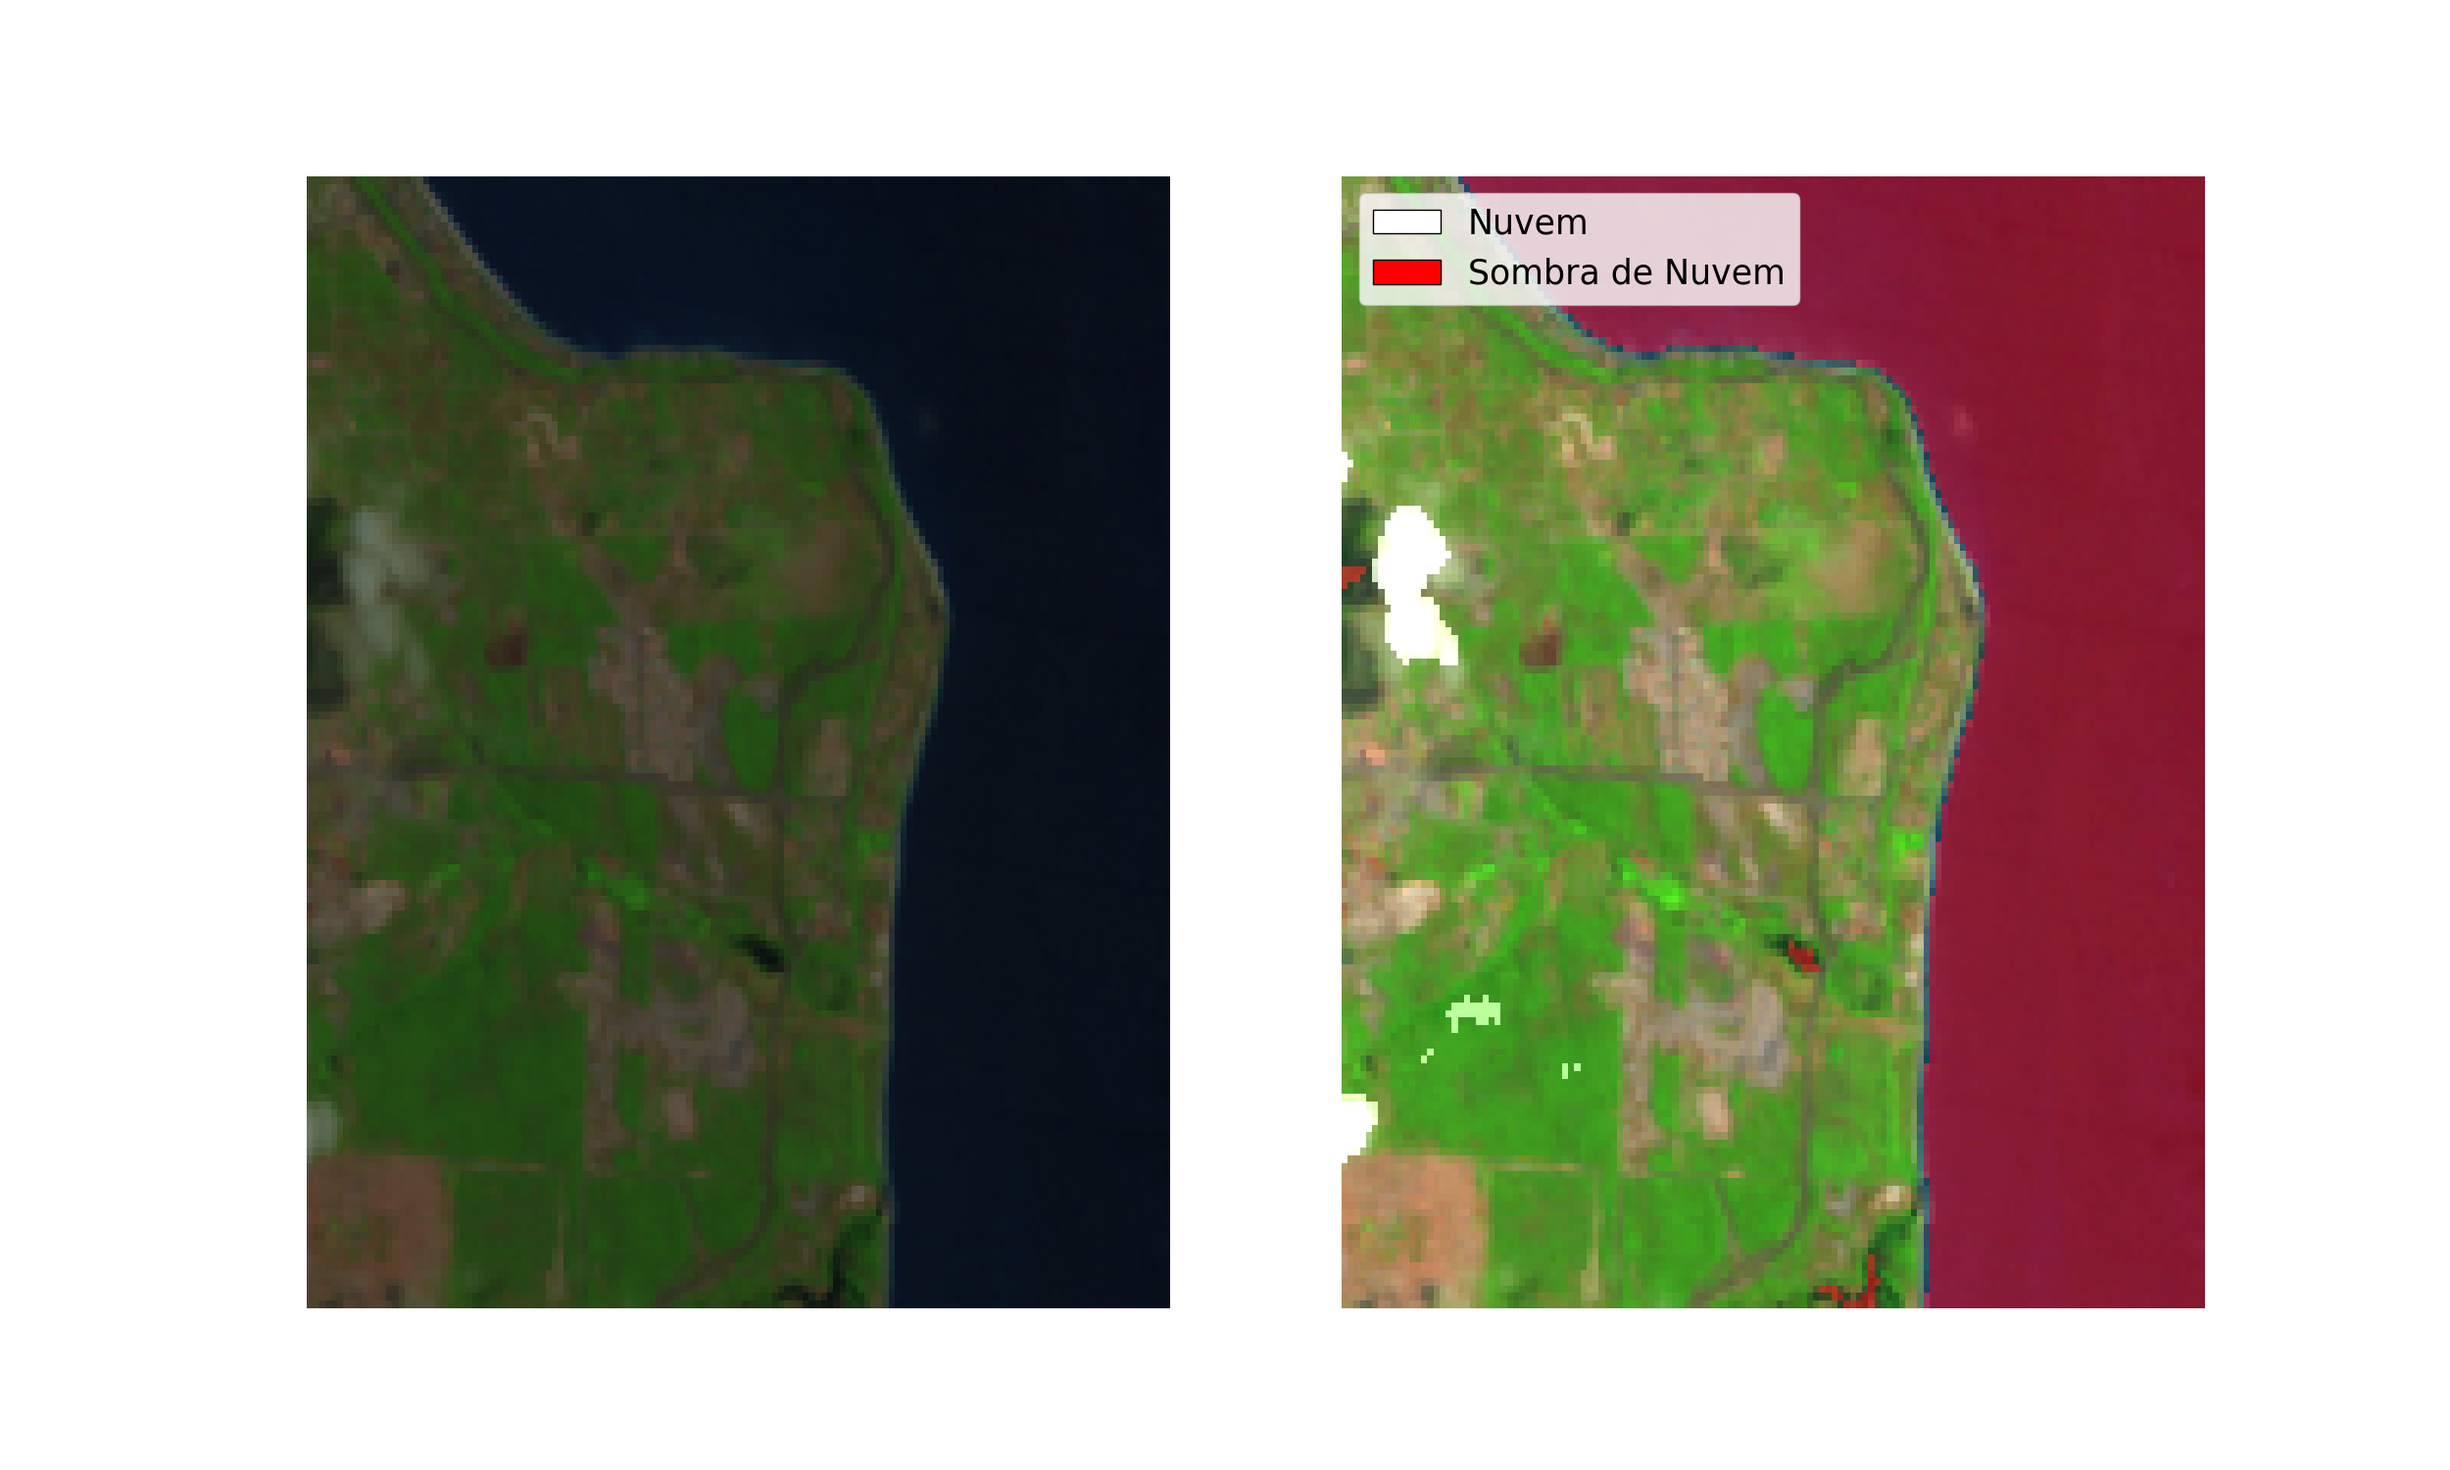
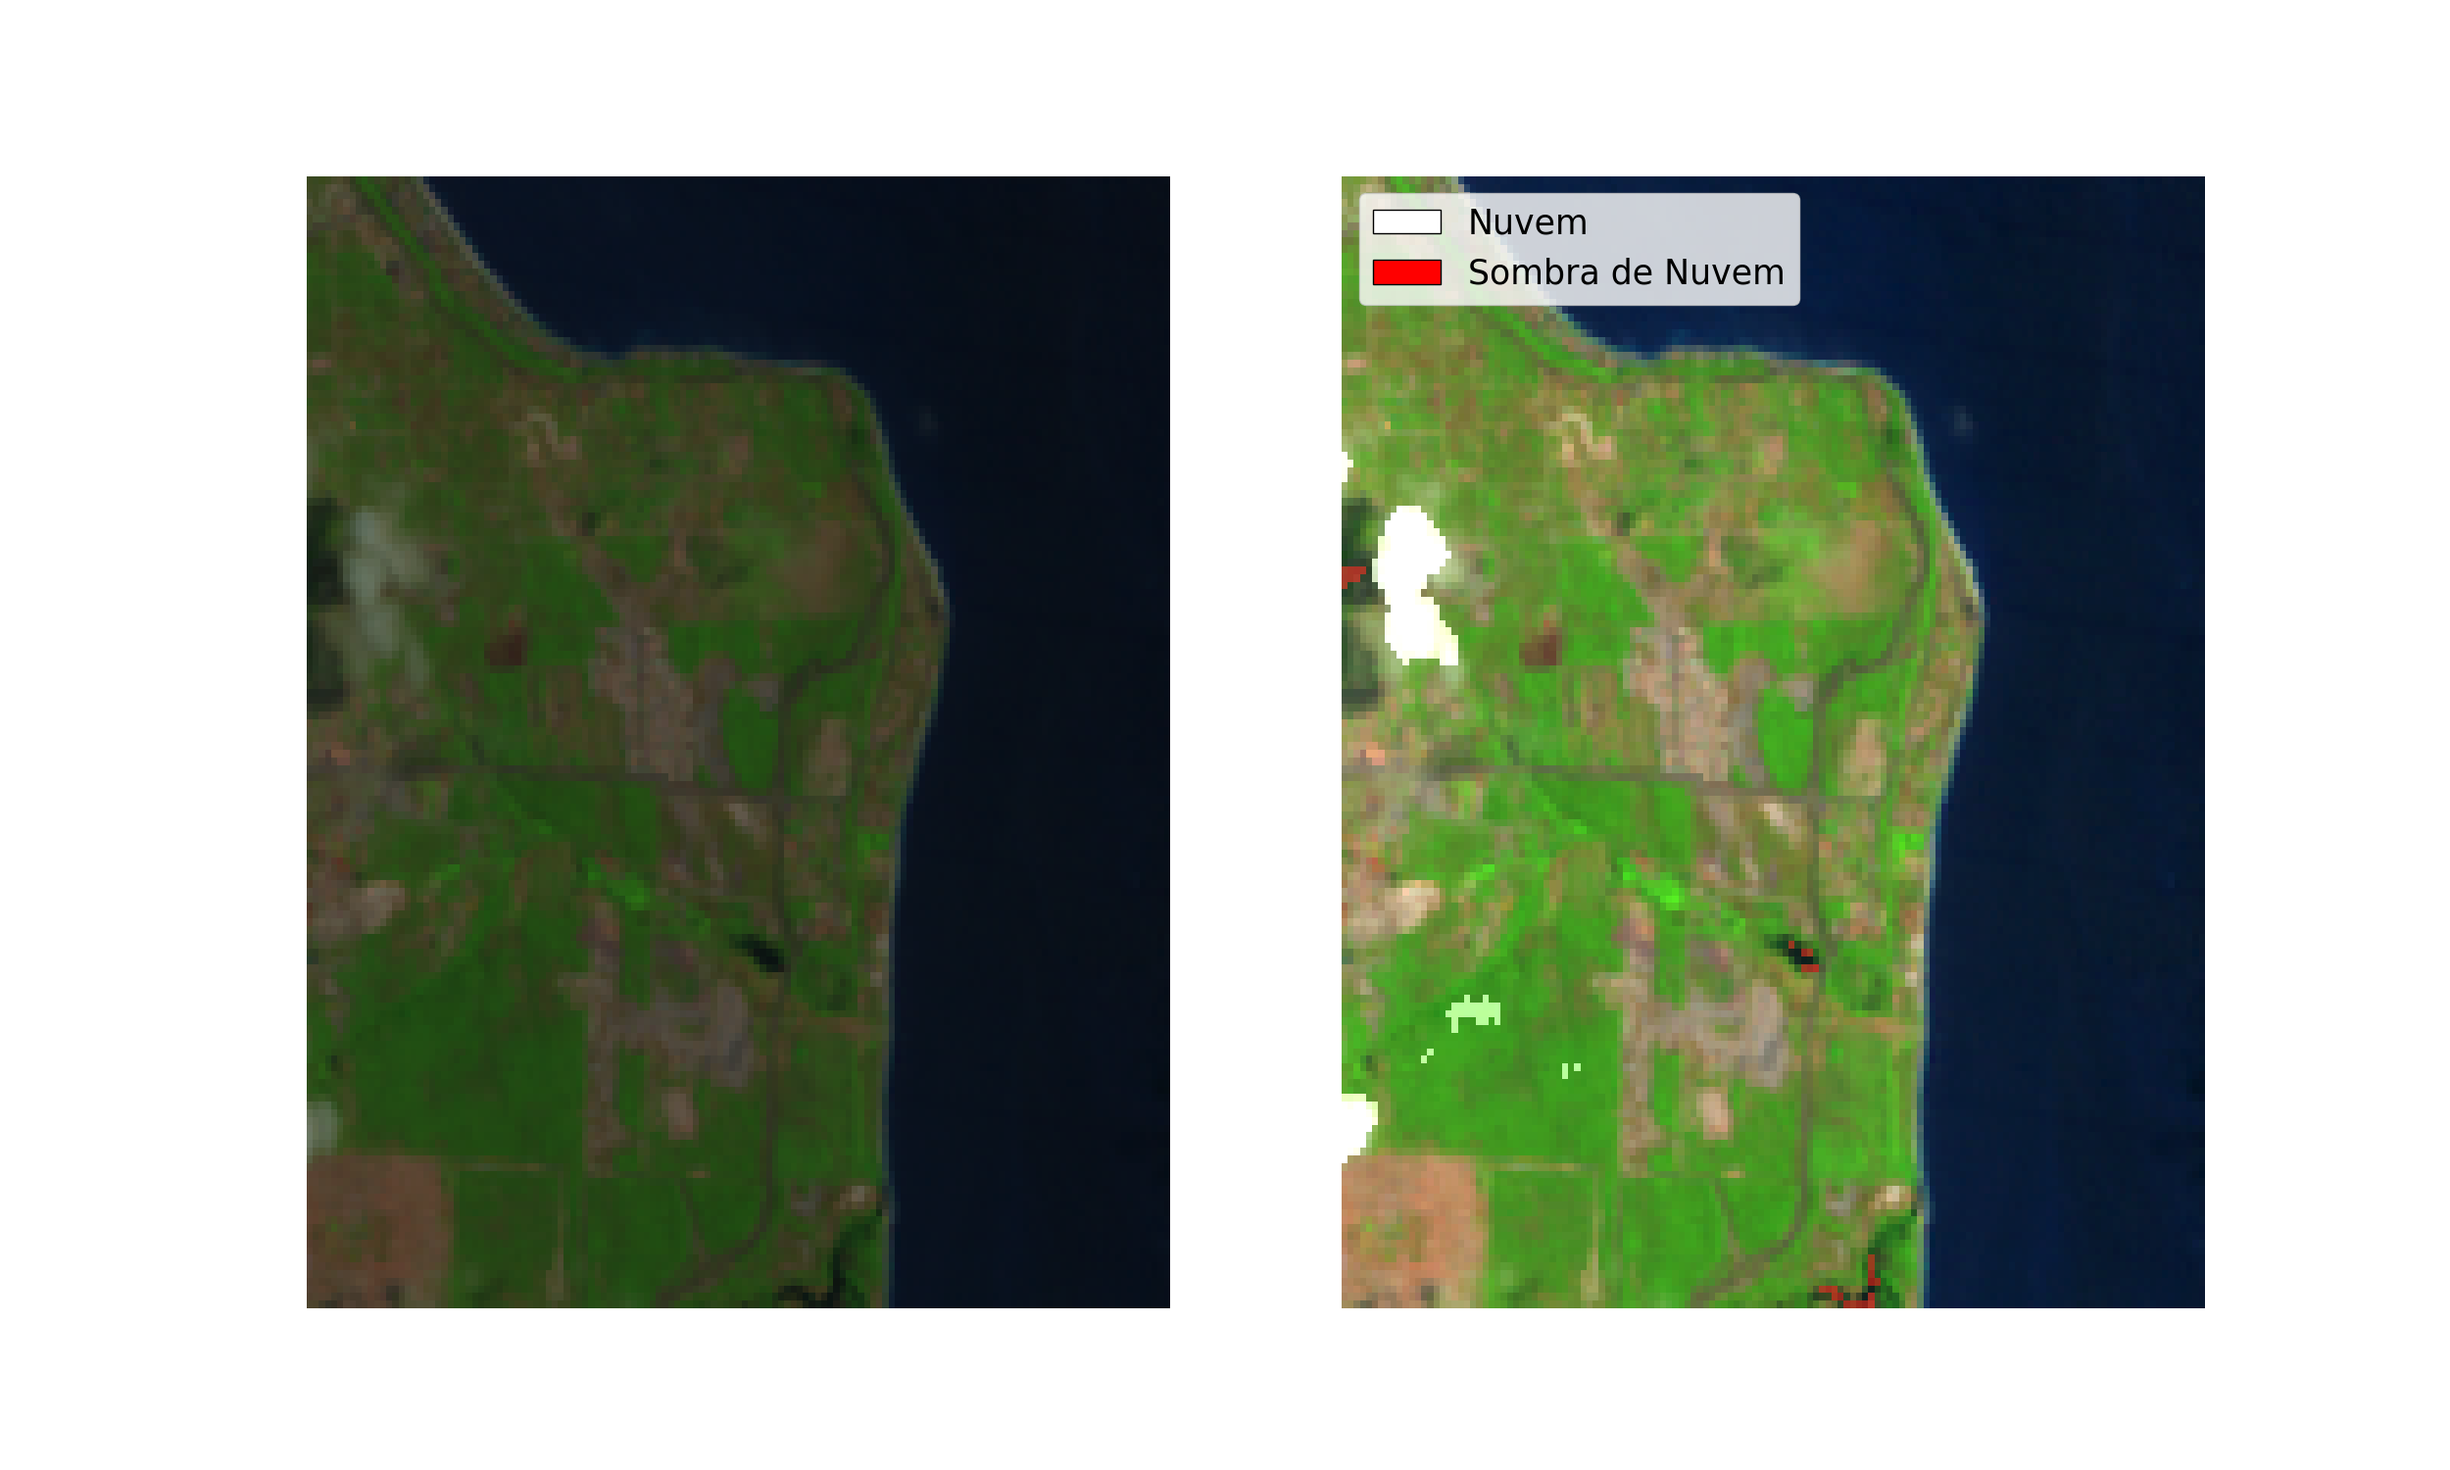
Using fmask water test to adjust cloud shadow layer

Changed region(s): [[0.5928, 0.1227, 0.9048, 0.8893]]

diff --git a/main.py b/main.py
@@ -72,12 +72,31 @@ class Fmask():
 
         b2_0_to_255 = np.max((b2 - np.min(b2)) / (np.max(b2) - np.min(b2)) * 255)
 
+        # Saturation test
         pixels_to_modify = (b2_0_to_255 == 255) & (b5 > b2)
 
         modified_ndsi[pixels_to_modify] = 0
 
 
         return ndsi, modified_ndsi
+
+    def calculate_ndwi(self,
+                       b3: np.ndarray,
+                       b5: np.ndarray) -> List[np.ndarray]:
+        
+        """Calculate the NDVI spectral indice by: nir-red/nir+red
+
+        Args:
+            b4 (np.ndarray): Nir band for landsat4-5 TM and landsat7 ETM
+            b3 (np.ndarray): Red band for landsat4-5 TM and landsat7 ETM
+
+        Returns:
+            List[np.ndarray]: A single band with the np.ndarray 
+        """
+
+        ndwi = (b3 - b5) / (b3 + b5)
+
+        return ndwi
 
     def calculate_brightness_temperature(self, band_thermal, k1, k2, to_celsius=False):
         radiance = band_thermal * 0.05518 + 1.2378  # Ajuste conforme necessário
@@ -417,12 +436,12 @@ class Fmask():
 
         return result_image
 
-    def detect_shadows(self, b4: np.ndarray):
+    def detect_shadows(self, b4: np.ndarray, water_test: np.ndarray):
        flood_fill_b4 = self.flood_fill_transformation(b4)
        # PCSL(Potential Cloud Shadow Layer) test       
     #    return flood_fill_b4 - b4 > 0.02
     #    print(b4.max())
-       return (flood_fill_b4 - b4 < 50)
+       return (flood_fill_b4 - b4 < 50) & np.logical_not(water_test)
 
     def save_tif(self, band: np.ndarray, tif_file: str, output_file: str) -> None:
         """_summary_
@@ -499,6 +518,7 @@ class Fmask():
         # Calculation the necessary indices
         ndvi, modified_ndvi = self.calculate_ndvi(B4, B3)
         ndsi, modified_ndsi = self.calculate_ndsi(B2, B5)
+        ndwi = self.calculate_ndwi(B3, B5)
         bt = B6 - 273.15
         whiteness = self.whiteness_test(B3, B2, B1)
         water = self.water_test(ndvi, B7)
@@ -516,13 +536,14 @@ class Fmask():
         
 
         # Get shadow cloud mask
-        shadow_mask = self.detect_shadows(B4)
+        shadow_mask = self.detect_shadows(B4, water_test=water)
 
         # cloud_mask = np.zeros_like(cloud_mask, dtype=np.uint8)
         # shadow_mask = np.zeros_like(cloud_mask, dtype=np.uint8)
         # cloud_mask[cloud_mask] = 1
         # shadow_mask[shadow_mask] = 1
 
+        # return ndwi, cloud_mask, shadow_mask
         return np.transpose(np.array([bands[4], bands[3], bands[2]]), [1, 2, 0]), cloud_mask, shadow_mask
 
 
